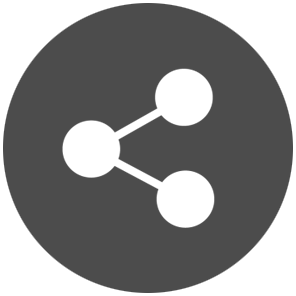
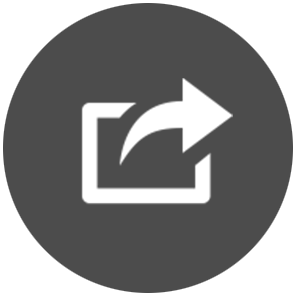
Share button on article page

Changed region(s): [[0.1824, 0.2128, 0.7905, 0.7905]]

diff --git a/Routes.js b/Routes.js
@@ -1,26 +1,36 @@
+var ActivityView = require('react-native-activity-view');
+
 class Routes {
-  static register(name, handler) {
-    if (this.handlers == null) this.handlers = {}
-    this.handlers[name] = handler
-  }
-  static get(name, params) {
-    if (this.handlers[name] == null) throw new Error('unknown route')
-    return this.handlers[name](params)
-  }
-  static TopStories() {
-    return {
-      component: require('./components/Main'),
-      title: 'WhySo?',
-      backButtonTitle: 'Back'
+    static register(name, handler) {
+        if (this.handlers == null) this.handlers = {}
+        this.handlers[name] = handler
     }
-  }
-  static Article(story) {
-    return {
-      component: require('./components/ArticleScreen'),
-      title: 'WhySo?',
-      passProps: story
+    static get(name, params) {
+        if (this.handlers[name] == null) throw new Error('unknown route')
+        return this.handlers[name](params)
     }
-  }
+    static TopStories() {
+        return {
+            component: require('./components/Main'),
+            title: 'WhySo?',
+            backButtonTitle: 'Back'
+        }
+    }
+    static Article(article) {
+        return {
+            component: require('./components/ArticleScreen'),
+            title: article.title,
+            passProps: article,
+            rightButtonIcon: require('./icons/icon-share.png'),
+            onRightButtonPress: () => {
+                ActivityView.show({
+                    text: article.title,
+                    url: 'https://whysoapp.com',
+                    imageUrl: article.image
+                });
+            }
+        }
+    }
 }
 
 module.exports = Routes

diff --git a/index.ios.js b/index.ios.js
@@ -14,17 +14,17 @@ var {
 var Routes = require('./Routes')
 
 var App = React.createClass({
-  render: function() {
-    return (
-      <NavigatorIOS
-        barTintColor='#234465'
-        titleTextColor='#fff'
-        tintColor='#fff'
-        style={styles.container}
-        initialRoute={Routes.TopStories()}
-      />
-    )
-  }
+    render: function() {
+        return (
+            <NavigatorIOS
+                barTintColor='#234465'
+                titleTextColor='#fff'
+                tintColor='#fff'
+                style={styles.container}
+                initialRoute={Routes.TopStories()}
+            />
+        )
+    }
 })
 
 var styles = StyleSheet.create({
